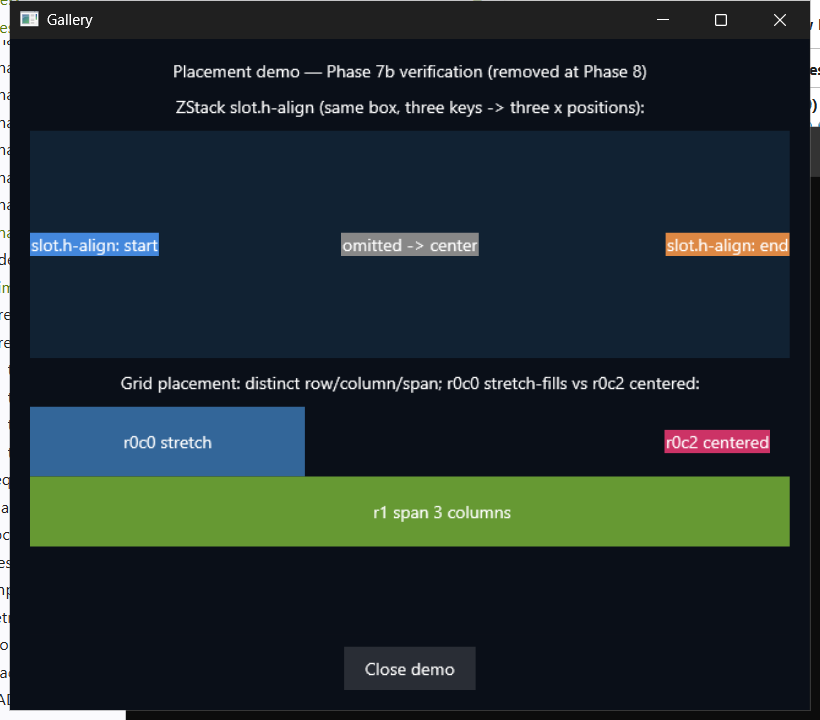
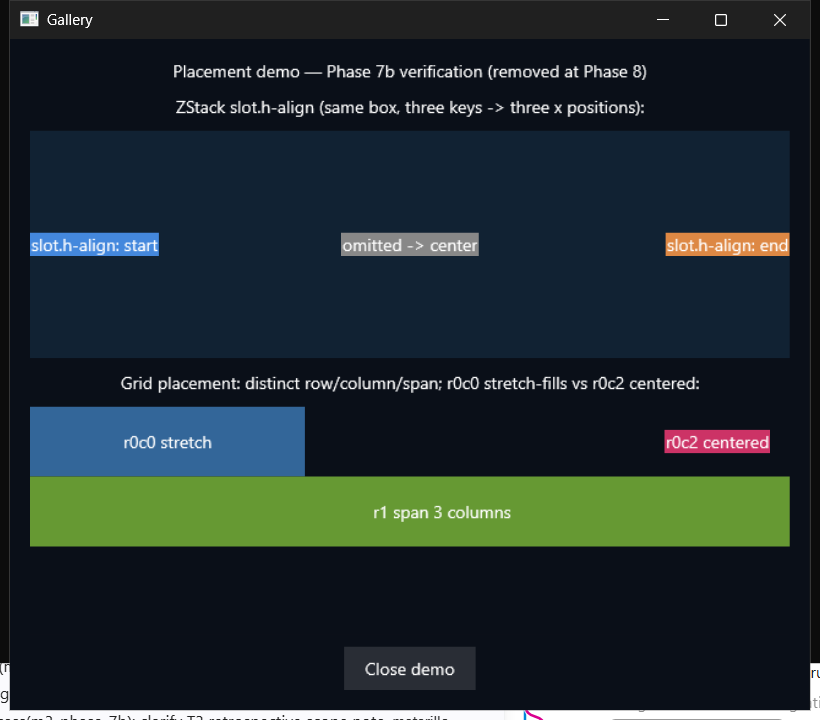
test(m3-phase-7b): address T5 GUI-evidence review findings
Resolves the three gaps from the Codex full independent review of T5:

1. Same-position proof closed in T5 (was punted to T6). The earlier
   "synthetic input does not drive the Composition app's buttons" finding
   was a sandbox artifact; on a real/elevated desktop the capture driver
   opens the lightbox. Added evidence/t5-lightbox-slot-current.png
   (current `slot.*` lightbox at the Phase 6/7 baseline 800x600) compared
   to phase-6/evidence/t7-lightbox-open.png: same centered scrim/photo/
   caption/nav arrangement.

2. Pinned the Grid-as-placed-ZStack-child behavior with a direct test
   `wasamoc::check::tests::zstack_grid_child_slot_alignment_rejected`
   (current reject; accept-vs-reject design decision stays a T7 /
   phase-end carry-forward — accepting it needs both a check_grid and a
   layout change, out of T5's GUI-evidence scope).

3. Removed the false-state ambiguity: reverted is_placement_demo_open to
   its committed default `false`, so evidence/t5-home.png is a genuine,
   regenerable home frame (shows the "Open placement demo" button) and the
   demo frame is reached by one click. Replaces t5-gallery-home-no-demo.png.

The capture driver gained an -OpenLightboxAt path and documents the
non-sandbox input requirement. log.md / plan.md / evidence/README.md
updated; close-gate same-position row flipped to closed (assistant
portion). No new compiler branch added; the pin test covers existing
[…]

Changed region(s): [[0.0, 0.0, 0.0305, 0.9778], [0.1524, 0.9167, 1.0, 1.0], [0.9756, 0.0, 1.0, 0.2444]]

diff --git a/wasamoc/src/check.rs b/wasamoc/src/check.rs
@@ -5453,6 +5453,31 @@ mod tests {
     }
 
     #[test]
+    fn zstack_grid_child_slot_alignment_rejected() {
+        // Pins CURRENT behavior (M3-Phase 7b T5 finding; carry-forward to
+        // T7 / phase-end triage). A `Grid` that is a direct `ZStack` child
+        // cannot carry `slot.h-align` / `slot.v-align` to place itself: the
+        // Grid pass (`check_grid`) consumes `slot.*` among the Grid's own
+        // members and rejects them as "inside `Grid`", even though the
+        // generic rule admits a `slot.*` on a ZStack direct child. The DD
+        // intent ("slot.* valid on a ZStack direct child") would *accept*
+        // this; the accept-vs-reject decision is deferred (a ZStack-centred
+        // Grid also currently measures 0×0, so accepting it needs a layout
+        // change too). Update this test if the behavior is changed.
+        let errs = errors(
+            r#"component C inherits W {
+                ZStack { Grid { slot.h-align: end columns: 1* rows: 1* Cell { Text { text: "x" } } } }
+            }"#,
+        );
+        assert!(
+            errs.iter().any(|e| {
+                e.contains("parent-owned child placement data") && e.contains("inside `Grid`")
+            }),
+            "{errs:?}"
+        );
+    }
+
+    #[test]
     fn zstack_slot_unknown_key_rejected() {
         let errs = errors(r#"component C inherits W { ZStack { Text { slot.row: 0 } } }"#);
         assert!(

diff --git a/process/milestone-3/phase-7b/implementation/log.md b/process/milestone-3/phase-7b/implementation/log.md
@@ -931,8 +931,10 @@ captured pixels.)
 | Placement-demo surface added to `gallery.ui` (state + button + `if is_placement_demo_open` overlay). | GUI fixture | `git diff -- examples/gallery/gallery.ui` shows `is_placement_demo_open`, "Open placement demo", and the overlay `ZStack`/`VStack`. | `cargo build --release -p gallery-rust` green (build-time `wasamoc check`). |
 | ZStack `slot.h-align` start / omitted→center / end render at three distinct horizontal positions. | Observable / positive control | `evidence/t5-placement-demo.png` top panel; authored at `gallery.ui` ZStack children. | Assistant pixel analysis (left/center/right boxes) — `evidence/README.md`. |
 | Grid cell placement (row/column/span) + stretch-default vs centered alignment render distinctly. | Observable / positive control | `evidence/t5-placement-demo.png` lower panel; authored Grid `Cell` placement in `gallery.ui`. | Assistant pixel analysis (r0c0 stretch-fill, r0c2 centered, r1 span-3). |
-| Re-tuned DPI-aware capture driver for the current layout. | Tooling | `git status` shows new `evidence/capture-placement-demo.ps1`. | Produced the captured frames; documented layout assumption in the script header. |
-| No new compiler reject / diagnostic / size branch. | (Non-applicable) | `git diff` touches no `wasamoc/` / `wasamo-runtime/` source. | Owner: T4 already owns the `slot.*` reject matrix; T5 only exercises accept branches positively. |
+| Same-position re-render: current `slot.*` lightbox lands at the pre-migration positions. | Observable / positive control | `evidence/t5-lightbox-slot-current.png` (800×600) vs `phase-6/evidence/t7-lightbox-open.png`. | Assistant pixel analysis (centered scrim/photo/caption/nav arrangement matches). |
+| Re-tuned DPI-aware capture driver for the current layout. | Tooling | `git status` shows new `evidence/capture-placement-demo.ps1`. | Produced the captured frames; documents the layout assumption + non-sandbox input requirement in the script header. |
+| Grid-as-placed-ZStack-child `slot.*` reject pinned by a direct test (current behavior; accept-vs-reject deferred). | Reject (pin of existing branch) | `rg -n "zstack_grid_child_slot_alignment_rejected" wasamoc\src\check.rs` | `wasamoc::check::tests::zstack_grid_child_slot_alignment_rejected` |
+| No **new** compiler reject / diagnostic / size branch (the pinned Grid reject already existed in `check_grid`). | (trap #4 non-applicable) | `git diff` adds no new `check`/`lower` branch, only a test. | T4 owns the `slot.*` reject matrix; T5 adds only the review-requested pin test. |
 
 T5 close gate — behavior / invariant carry scan:
 
@@ -940,7 +942,7 @@ T5 close gate — behavior / invariant carry scan:
 |---|---|---|
 | `slot.h-align` placement is visibly read from the migrated model and produces alignment-keyword-driven positions (assistant baseline). | Closed (assistant portion) | Closed by `evidence/t5-placement-demo.png` + analysis. The **owner-visible** smoke remains T6. |
 | Grid cell placement (row/column/span/alignment) is visibly reflected (assistant baseline). | Closed (assistant portion) | Closed by the Grid panel in the same frame + analysis. Owner-visible smoke = T6. |
-| Same-position re-render proof (lightbox lands where it did pre-migration). | Not closed by assistant | Owner task = T6; scope = open the lightbox interactively and compare to the Phase 6/7 evidence; impact = the assistant session cannot drive the toggle/lightbox click; close = owner T6 acceptance. |
+| Same-position re-render proof (lightbox lands where it did pre-migration). | Closed (assistant portion) — see review response below | Closed by `evidence/t5-lightbox-slot-current.png` (current-branch `slot.*` lightbox at the Phase 6/7 baseline 800×600) compared to `phase-6/evidence/t7-lightbox-open.png`: same centered scrim/photo/caption/nav arrangement. Owner-visible confirmation remains T6. |
 | Gallery placement-demo surface is throwaway and must be removed at Phase 8. | Not closed (deferred) | Owner = T7 / phase-end ledger → Phase 8; scope = `is_placement_demo_open` state + button + overlay in `gallery.ui` + `evidence/` driver; close = Phase 8 cleanup sweep removes it with the other per-phase verification surfaces. |
 
 T5 carry-forward ownership:
@@ -949,9 +951,9 @@ T5 carry-forward ownership:
 |---|---|---|---|
 | Owner-visible GUI smoke + same-position lightbox proof. | T6 | Assistant baseline proves contrast on a default-open demo surface; human correctness judgement + the interactive lightbox same-position comparison remain owner-owned. | Owner runs the gallery, accepts or records fail/fix/re-run. |
 | Phase-8 removal of the placement-demo surface. | T7 / phase-end → Phase 8 | `gallery.ui` demo state/button/overlay + `evidence/` capture driver are verification scaffolding. | T7 candidate ledger / phase-end handoff records it; Phase 8 sweep removes it. |
-| **Finding — Grid cannot be a placed ZStack/overlay child.** `check_grid` consumes `slot.*` among a Grid's own members and rejects it ("found inside Grid"), so a Grid cannot carry `slot.h-align`/`v-align`; and a Grid centered by the ZStack default measures 0×0 (`measure_grid` reads the `Fill` width/height constraint, not the track sums) → invisible. Worked around in T5 by wrapping Grid content in a stretched `VStack`. | T7 / phase-end (triage) | Author-surface ↔ layout interaction gap surfaced by T5; may be intended semantics or a real gap. Not a Phase-7b regression (the `slot.*` migration did not introduce it). Impact: authors cannot place a Grid directly in a ZStack overlay. | T7 records it for owner triage (spec note vs future fix); no Phase-7b code change. |
+| **Finding — Grid cannot be a placed ZStack/overlay child.** `check_grid` consumes `slot.*` among a Grid's own members and rejects it ("found inside Grid"), so a Grid cannot carry `slot.h-align`/`v-align`; and a Grid centered by the ZStack default measures 0×0 (`measure_grid` reads the `Fill` width/height constraint, not the track sums) → invisible. Worked around in T5 by wrapping Grid content in a stretched `VStack`. **Current reject pinned** by `wasamoc::check::tests::zstack_grid_child_slot_alignment_rejected` (per the Codex review). | T7 / phase-end (triage) | Author-surface ↔ layout interaction gap surfaced by T5; the DD intent ("slot.* valid on a ZStack direct child") would accept it, so this is a real gap, not intended semantics. Not a Phase-7b regression. Impact: authors cannot place a Grid directly in a ZStack overlay. | T7 decides accept (needs `check_grid` + layout change) vs explicit-reject-as-spec (needs a clearer diagnostic + docs); the pin test updates with the decision. |
 | **Finding — `aspect` Box inside a Grid cell aborts arrange** when the cell is measured under an unbounded intrinsic probe (`BoxAspectUnboundedBoth` during the enclosing VStack/ZStack measure), silently dropping the whole subtree. | T7 / phase-end (triage) | Pre-existing layout behavior surfaced by T5 (the documented aspect-needs-a-bounded-axis rule). Worked around by using plain fill Boxes in demo cells. | T7 records for owner triage; no Phase-7b code change. |
-| **Finding — synthetic input does not drive the Composition app's buttons** (`SetCursorPos`+`mouse_event` and posted `WM_LBUTTON*`) in a non-interactive agent session; this is why historical "open" frames needed an owner/interactive click and why the demo is authored default-open. | T6 / future GUI-evidence tasks | Constrains assistant GUI navigation to non-interactive (default-rendered) surfaces; interactive state transitions remain owner-owned (T6) or need an M4+ owning-thread message-pump driver. | Recorded; T6 owns interactive verification; M4 interactive-GUI work revisits an automatable input path. |
+| **Capture-environment note (corrected, see review response)** — synthetic input (`SetCursorPos`+`mouse_event` and posted `WM_LBUTTON*`) drives the Composition app's buttons on a **real / elevated desktop** but is **dropped in a restricted (sandboxed) session**. The original close-gate claim that it "does not drive the buttons" was a sandbox artifact, not an app limitation. | (resolved in T5) | The captures are produced on a non-sandboxed desktop; `gallery.ui` defaults `is_placement_demo_open` to `false` and every frame is regenerable by clicking. M4+ interactive-GUI test automation still needs an owning-thread message-pump driver, but T5's evidence does not depend on it. |
 
 No owner-unknown unresolved point remains from T5: every open item is
 assigned to T6, T7 / phase-end, or the Phase 8 close. Trap #6 did not
@@ -959,3 +961,45 @@ trigger as a flake — the demo "invisible" outcomes were deterministic
 layout aborts that were root-caused (star-track unbounded measure;
 `aspect`-in-cell `BoxAspectUnboundedBoth`; Grid-as-ZStack-child 0-size)
 and fixed by re-authoring, not re-rolled to green.
+
+### T5 review response (Codex full independent review, 2026-06-23)
+
+Codex's full independent review (GUI-render lane) judged the core
+positive controls sufficient but found three gaps; all three are resolved
+on this branch (follow-up commit):
+
+1. **Same-position proof closed in T5, not punted to T6.** Re-ran the
+   capture on a non-sandboxed desktop where synthetic input works, opened
+   the current-branch `slot.*` lightbox at the Phase 6/7 baseline size,
+   and added `evidence/t5-lightbox-slot-current.png` with the comparison
+   against `phase-6/evidence/t7-lightbox-open.png` (see the corrected
+   behavior/invariant row above). This also corrected the earlier
+   "synthetic input does not drive the buttons" finding — it was a sandbox
+   artifact.
+2. **Grid-as-placed-ZStack-child behavior pinned.** Not fixed in T5
+   (accepting it needs both a `check_grid` change and a layout change —
+   out of T5's GUI-evidence scope), so the **current reject is pinned by a
+   direct test** `wasamoc::check::tests::zstack_grid_child_slot_alignment_rejected`,
+   and the accept-vs-reject design decision stays a T7 / phase-end
+   carry-forward (the test comment names the deferral). This is the
+   carry-forward path Codex allowed; T5 does **not** claim the constraint
+   is "closed".
+3. **`t5-gallery-home-no-demo.png` ambiguity removed.** Reverted
+   `is_placement_demo_open` to its committed default `false` so the home
+   frame is a genuine, regenerable false-state. The old probe image is
+   replaced by `evidence/t5-home.png` (clean home, shows the "Open
+   placement demo" button); the demo frame is reached by one click.
+
+Updated trap-#4 note: T5 still adds **no new** compiler reject / diagnostic
+/ size branch (the Grid-as-ZStack-child reject already existed in
+`check_grid`); the added test **pins existing behavior** flagged by the
+review, so the branch/test-focused check inside the full review is
+satisfied by `zstack_grid_child_slot_alignment_rejected`.
+
+Verification after the follow-up:
+
+| Command / evidence | Result | Notes |
+|---|---|---|
+| `cargo test -p wasamoc --lib zstack_grid_child_slot_alignment_rejected` | Green | Pins the current Grid-as-ZStack-child `slot.*` reject. |
+| `cargo build --release -p gallery-rust` (demo default `false`) | Green | Build-time `wasamoc check` of `gallery.ui` passes. |
+| Non-sandbox capture (`-OpenDemoAt` / `-OpenLightboxAt`) | Frames captured | `t5-home.png`, `t5-placement-demo.png`, `t5-lightbox-slot-current.png` regenerated from the committed `false` default by clicking. |

diff --git a/process/milestone-3/phase-7b/implementation/evidence/README.md b/process/milestone-3/phase-7b/implementation/evidence/README.md
@@ -10,26 +10,41 @@ not replace it.
 ## Capture driver
 
 [`capture-placement-demo.ps1`](./capture-placement-demo.ps1) — re-tuned
-for the **current** gallery layout. The proven Phase 6/7
+for the **current** gallery layout (the Phase 6/7
 [`capture-lightbox.ps1`](../../phase-6/implementation/evidence/capture-lightbox.ps1)
-click coordinates are stale, and synthetic input (`SetCursorPos` +
-`mouse_event`, and posted `WM_LBUTTON*`) does **not** drive the wasamo
-Composition app's button handler in a non-interactive agent session — so
-the placement-demo surface is authored **default-open**
-(`state is_placement_demo_open: bool = true` in `gallery.ui`) and the
-assistant captures it directly without a click. The owner verifies the
-toggle / Close button interactively in T6.
+click coordinates are stale after the placement-demo button was inserted).
+It launches `gallery-rust`, finds the Gallery HWND by title, sizes the
+window, and drives the home buttons by posting `WM_LBUTTON*` (and a
+`SetCursorPos`+`mouse_event` fallback).
+
+**Environment requirement.** Synthetic input drives the wasamo
+Composition app's buttons only on a **real / elevated visible desktop**;
+inside a restricted (sandboxed) session the injected input is dropped and
+the button never fires (the toggle / lightbox stays closed). Run the
+captures on a non-sandboxed desktop. The placement-demo state defaults to
+`false` in `gallery.ui`, so every frame below is regenerable from the
+committed code by re-running the driver:
 
 ```
-pwsh -File capture-placement-demo.ps1 -CaptureHomeOnly -Width 820 -Height 720 -OutputPrefix t5-demo
+# home + placement demo (click "Open placement demo")
+pwsh -File capture-placement-demo.ps1 -Width 820 -Height 720 -OutputPrefix t5 -OpenDemoAt "410,399"
+# same-position lightbox at the Phase 6/7 baseline size (click "Open lightbox")
+pwsh -File capture-placement-demo.ps1 -Width 800 -Height 600 -OutputPrefix t5 -OpenLightboxAt "400,341"
 ```
 
 ## Frames
 
+### `t5-home.png` — clean home (false-state, regenerable)
+
+The gallery home with `is_placement_demo_open = false` (committed default).
+The "Open placement demo" button is present; the demo overlay is absent.
+This is the genuine false-state captured from the current commit (not a
+probe), and the baseline the demo frame is reached from by one click.
+
 ### `t5-placement-demo.png` — the positive controls (canonical frame)
 
-Two on-screen positive controls, both read off the migrated `slot.*` /
-`SlotData` model:
+Reached by clicking "Open placement demo" on `t5-home.png`. Two on-screen
+positive controls, both read off the migrated `slot.*` / `SlotData` model:
 
 - **ZStack `slot.h-align`** (top panel): three identical boxes differing
   **only** in `slot.h-align` land at three distinct horizontal positions —
@@ -47,27 +62,30 @@ Two on-screen positive controls, both read off the migrated `slot.*` /
   (row/column/span all reflected). Distinct cell positions + the
   stretch-vs-centered contrast are the positive control.
 
-### `t5-gallery-home-no-demo.png` — environment-capability + motivation record
+### `t5-lightbox-slot-current.png` — same-position re-render proof
 
-A capture of the gallery home **without** the demo (the original
-`is_placement_demo_open = false` state). It confirms (a) the environment
-renders non-blank GUI (assistant capture is dischargeable here), and (b)
-the shipped gallery's incidental layout does **not** surface the placement
-positive controls — only `slot.h-align: stretch` ZStack children, and the
-main-screen Grid does not appear at this size — which is why T5 adds the
-deliberate placement-demo surface.
+The current-branch (`slot.*`-migrated) lightbox, captured at the Phase
+6/7 baseline window size (800×600) by clicking "Open lightbox". Compared
+to the pre-migration baseline
+[`../../phase-6/implementation/evidence/t7-lightbox-open.png`](../../phase-6/implementation/evidence/t7-lightbox-open.png)
+(also 800×600): the scrim fills the whole window (Fill/Fill), and the 4:3
+"Lightbox photo placeholder" is centered, with the "Gallery image 01"
+caption directly below it, the "Box 4:3 placeholder…" line under that, and
+the "< > x" nav buttons centered at the bottom — the **same centered
+overlay arrangement** as the baseline. The `slot.*` migration is a pure
+re-expression of placement and lands the lightbox content in the same
+positions. (Home content *behind* the semi-transparent scrim differs
+between the two frames because the gallery `.ui` evolved across phases;
+that is not the lightbox placement under test.)
 
-## Same-position (re-render) baseline
+## "Gallery does not surface the contrast" (recorded in [../log.md](../log.md))
 
-T4 removed the old ZStack bare syntax, so the "same positions as the old
-surface" half cannot be regenerated on this branch. It is read against the
-Phase 6/7 lightbox evidence
-([../../phase-6/implementation/evidence/](../../phase-6/implementation/evidence/)):
-the `slot.*` migration is a pure re-expression of placement, so the
-lightbox scrim/photo land where they did pre-migration. The assistant
-provides the **contrast** half (this frame); the same-position half is
-owner-confirmed in T6 (the lightbox needs an interactive click the
-assistant session cannot deliver).
+The shipped gallery's incidental layout does **not** exercise the
+placement positive controls — its ZStack children are all
+`slot.h-align: stretch`, and the main-screen Grid does not render visibly
+at the capture size — which is why T5 adds the deliberate placement-demo
+surface. (A pre-implementation probe confirmed both this and that the
+environment renders non-blank GUI.)
 
 ## Phase-8 removal
 

diff --git a/process/milestone-3/phase-7b/implementation/plan.md b/process/milestone-3/phase-7b/implementation/plan.md
@@ -438,10 +438,13 @@ ledger).
       - **Deviations (recorded in [log.md](./log.md)):** the overlay
         content is wrapped in a stretched `VStack` because a Grid cannot
         be a placed ZStack child (`check_grid` rejects `slot.*`; a
-        ZStack-centred Grid measures 0×0); `aspect` Boxes are avoided in
-        demo cells (they abort the intrinsic measure); and the surface is
-        authored **default-open** because synthetic input does not drive
-        the Composition app's buttons in a non-interactive agent session.
+        ZStack-centred Grid measures 0×0 — pinned by
+        `zstack_grid_child_slot_alignment_rejected`, carry-forward to T7);
+        `aspect` Boxes are avoided in demo cells (they abort the intrinsic
+        measure). The surface defaults to `false` and is opened by a click
+        in the capture; synthetic input drives the Composition app's
+        buttons on a real / elevated desktop (a sandboxed session drops the
+        input — environment note, not an app limitation).
 - [x] Build and run `examples/gallery-rust/`. **Capture mechanics —
       reuse the proven Phase 6/7 pattern**
       ([capture-lightbox.ps1](../../phase-6/implementation/evidence/capture-lightbox.ps1)):
@@ -452,11 +455,14 @@ ledger).
       ([capture-placement-demo.ps1](./evidence/capture-placement-demo.ps1))
       lands under [evidence/](./evidence/).
 - [x] Record assistant evidence as labelled frames under
-      [evidence/](./evidence/) (`t5-placement-demo.png`,
-      `t5-gallery-home-no-demo.png`) with the analysis in
+      [evidence/](./evidence/) (`t5-home.png`, `t5-placement-demo.png`,
+      `t5-lightbox-slot-current.png`) with the analysis in
       [evidence/README.md](./evidence/README.md) noting what each frame
       proves and the positive control it carries. DPI blur, if any, is the
       known M4 residual, not a Phase 7b failure.
+- [x] **Same-position proof (closed in T5).** Capture the current-branch
+      `slot.*` lightbox at the Phase 6/7 baseline size and compare to the
+      pre-migration lightbox evidence.
 
 **Baseline for the same-position proof.** Because T4 rejects the old
 ZStack bare syntax, the "same positions as the old surface" comparison
@@ -464,11 +470,14 @@ ZStack bare syntax, the "same positions as the old surface" comparison
 against the **Phase 6/7 lightbox GUI evidence**
 ([phase-6 evidence](../../phase-6/implementation/evidence/)) — the
 `slot.*` migration is a pure re-expression of placement, so the lightbox
-scrim/photo land at the same positions as before the migration. The new
-**contrast** half (varied ZStack alignment → varied position; omitted
-Grid placement → default) is what the placement-demo sub-screen adds,
-since no pre-migration frame exercised it. T5 names this split in
-[log.md](./log.md).
+scrim/photo land at the same positions as before the migration. T5
+captured `evidence/t5-lightbox-slot-current.png` (current `slot.*`
+lightbox at the baseline 800×600) and read it against
+`phase-6/evidence/t7-lightbox-open.png`: same centered scrim/photo/caption/
+nav arrangement (assistant portion closed in T5; owner-visible
+confirmation is T6's). The **contrast** half (varied ZStack alignment →
+varied position; omitted Grid placement → default) is the placement-demo
+sub-screen's `t5-placement-demo.png`.
 
 **Start gate:** **T3 merged** (placement renders from final `SlotData`
 storage) **and** T4 merged (`.ui` on the new surface); the baseline
